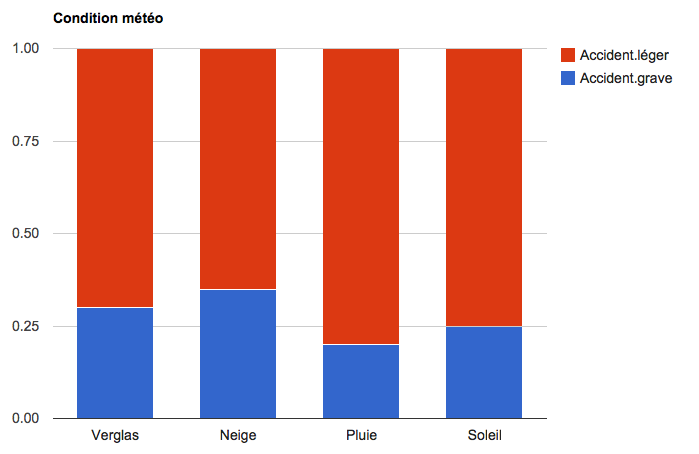
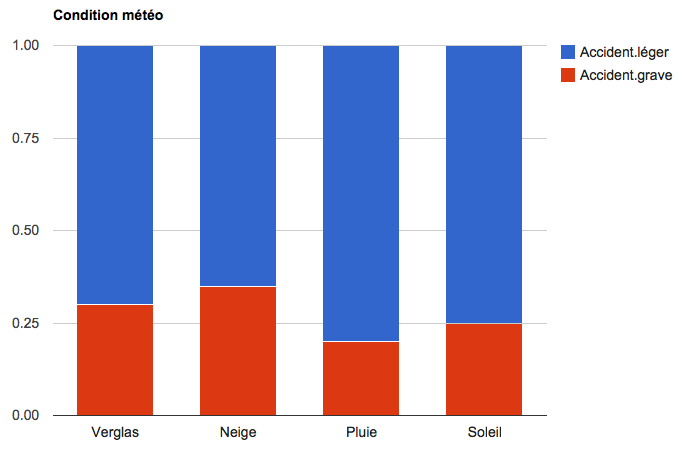
mise à jour images

diff --git a/g.html b/g.html
@@ -2,7 +2,7 @@
   "http://www.w3.org/TR/xhtml1/DTD/xhtml1-strict.dtd">
 <html xmlns="http://www.w3.org/1999/xhtml">
 <head>
-<title>ColumnChartID18de05944a</title>
+<title>ColumnChartID18d1fe1b3b2</title>
 <meta http-equiv="content-type" content="text/html;charset=utf-8" />
 <style type="text/css">
 body {
@@ -18,14 +18,14 @@ body {
 </head>
 <body>
  <!-- ColumnChart generated in R 3.1.2 by googleVis 0.5.6 package -->
-<!-- Wed Feb 11 15:14:51 2015 -->
+<!-- Wed Feb 11 15:50:23 2015 -->
 
 
 <!-- jsHeader -->
 <script type="text/javascript">
  
 // jsData 
-function gvisDataColumnChartID18de05944a () {
+function gvisDataColumnChartID18d1fe1b3b2 () {
 var data = new google.visualization.DataTable();
 var datajson =
 [
@@ -73,18 +73,19 @@ return(data);
 }
  
 // jsDrawChart
-function drawChartColumnChartID18de05944a() {
-var data = gvisDataColumnChartID18de05944a();
+function drawChartColumnChartID18d1fe1b3b2() {
+var data = gvisDataColumnChartID18d1fe1b3b2();
 var options = {};
 options["allowHtml"] = true;
 options["isStacked"] = "true";
+options["colors"] = ['#dc3912','#3366cc'];
 options["width"] =    800;
 options["height"] =    600;
 options["title"] = "Date de frabrication";
 
 
     var chart = new google.visualization.ColumnChart(
-    document.getElementById('ColumnChartID18de05944a')
+    document.getElementById('ColumnChartID18d1fe1b3b2')
     );
     chart.draw(data,options);
     
@@ -108,9 +109,9 @@ if (newPackage)
   pkgs.push(chartid);
   
 // Add the drawChart function to the global list of callbacks
-callbacks.push(drawChartColumnChartID18de05944a);
+callbacks.push(drawChartColumnChartID18d1fe1b3b2);
 })();
-function displayChartColumnChartID18de05944a() {
+function displayChartColumnChartID18d1fe1b3b2() {
   var pkgs = window.__gvisPackages = window.__gvisPackages || [];
   var callbacks = window.__gvisCallbacks = window.__gvisCallbacks || [];
   window.clearTimeout(window.__gvisLoad);
@@ -134,14 +135,14 @@ callbacks.shift()();
 </script>
  
 <!-- jsChart -->  
-<script type="text/javascript" src="https://www.google.com/jsapi?callback=displayChartColumnChartID18de05944a"></script>
+<script type="text/javascript" src="https://www.google.com/jsapi?callback=displayChartColumnChartID18d1fe1b3b2"></script>
  
 <!-- divChart -->
   
-<div id="ColumnChartID18de05944a" 
+<div id="ColumnChartID18d1fe1b3b2" 
   style="width: 800; height: 600;">
 </div>
- <div><span>Data: data &#8226; Chart ID: <a href="Chart_ColumnChartID18de05944a.html">ColumnChartID18de05944a</a> &#8226; <a href="https://github.com/mages/googleVis">googleVis-0.5.6</a></span><br /> 
+ <div><span>Data: data &#8226; Chart ID: <a href="Chart_ColumnChartID18d1fe1b3b2.html">ColumnChartID18d1fe1b3b2</a> &#8226; <a href="https://github.com/mages/googleVis">googleVis-0.5.6</a></span><br /> 
 <!-- htmlFooter -->
 <span> 
   R version 3.1.2 (2014-10-31) 
